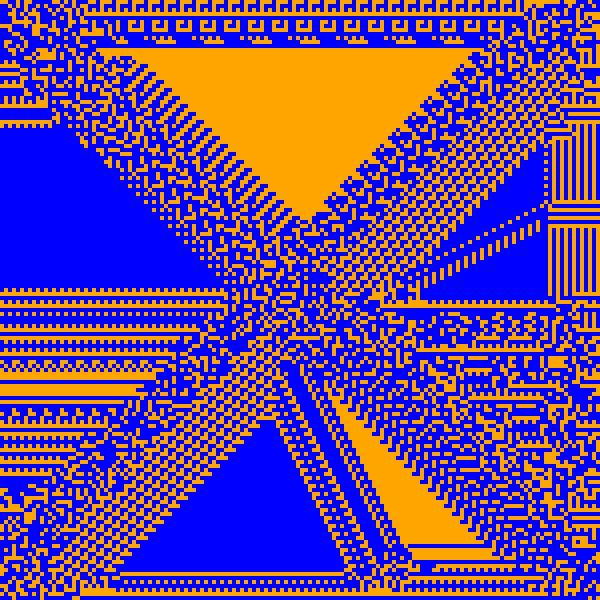
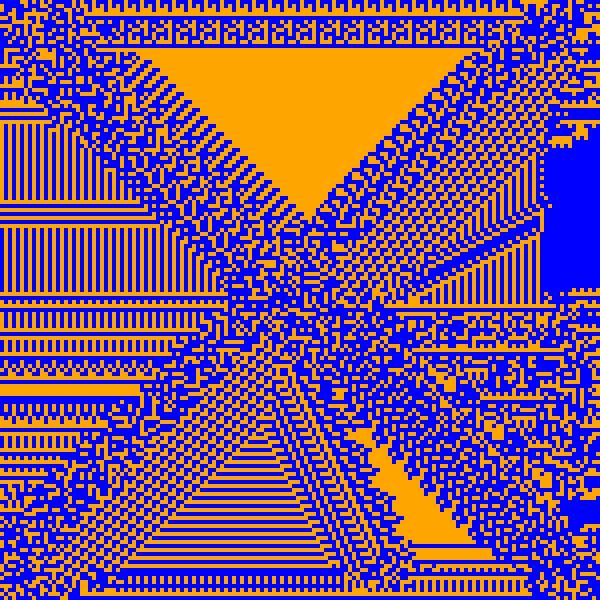
put functions into separate python file

diff --git a/CellularAtm.py b/CellularAtm.py
@@ -1,6 +1,7 @@
 from tkinter import *
 import numpy as np
 from PIL import Image, ImageDraw
+from rules import start_state
 #import keyboard
 
 
@@ -48,7 +49,6 @@ def start_state(w, h, s, state):
         print('wrong dimensions')
 
 
-
 ca.current_state = start_state(width, height, scl, 'cross')
 ca.next_state = np.zeros((int(width / scl), int(height / scl)))
 ca.neighbors = 0
@@ -87,23 +87,10 @@ def update():
             ca.neighbors = topLeft + topCenter + topRight + midLeft + \
                            midRight + bottomLeft + bottomCenter + bottomRight
 
-            # if ca.current_state[int(i / scl)][int(j / scl)] == 1 and (ca.neighbors == 2 or ca.neighbors == 4):
-            #     ca.next_state[int(i / scl)][int(j / scl)] = 0
-            # elif ca.current_state[int(i / scl)][int(j / scl)] == 0 and (ca.neighbors == 1 or ca.neighbors == 3 or ca.neighbors == 8):
-            #     ca.next_state[int(i / scl)][int(j / scl)] = 1
-
             if ca.current_state[int(i/scl)][int(j/scl)] == 1 and (ca.neighbors == 1 or ca.neighbors == 6 or ca.neighbors == 2):
                 ca.next_state[int(i/scl)][int(j/scl)] = 0
             elif ca.current_state[int(i/scl)][int(j/scl)] == 0 and (ca.neighbors < 3 or ca.neighbors == 7):
                 ca.next_state[int(i/scl)][int(j/scl)] = 1
-
-            # game of life
-#            if ca.current_state[int(i/scl)][int(j/scl)] == 1 and (ca.neighbors < 2 or ca.neighbors == 1):
-#                ca.next_state[int(i/scl)][int(j/scl)] = 0
-#            elif ca.current_state[int(i/scl)][int(j/scl)] == 1 and (ca.neighbors > 3):
-#                ca.next_state[int(i/scl)][int(j/scl)] = 0
-#            elif ca.current_state[int(i/scl)][int(j/scl)] == 0 and (ca.neighbors == 3):
-#                ca.next_state[int(i/scl)][int(j/scl)] = 1
 
             if ca.current_state[int(i / scl)][int(j / scl)] == 1:
                 canvas.create_rectangle(i, j, i + scl, j + scl, fill='orange', outline='')
@@ -115,7 +102,7 @@ def update():
             ca.current_state[int(i / scl)][int(j / scl)] = ca.next_state[int(i / scl)][int(j / scl)]
 
     # keyboard.wait("p")
-    my_window.after(400, update)
+    my_window.after(500, update)
     filename = "my_CA.jpg"
     image1.save(filename)
 
@@ -124,5 +111,5 @@ my_window = Tk()
 canvas = Canvas(my_window, width=width, height=height, background='black')
 canvas.pack()
 
-my_window.after(400, update)
+my_window.after(500, update)
 my_window.mainloop()

diff --git a/rules.py b/rules.py
@@ -1,0 +1,44 @@
+import numpy as np
+
+def pad_with(vector, pad_width, iaxis, kwargs):
+    pad_value = kwargs.get('padder', 10)
+    vector[:pad_width[0]] = pad_value
+    vector[-pad_width[1]:] = pad_value
+
+
+def start_state(w, h, s, state):
+
+    if state == 'pad' and int(w/s) % 3 == 0:
+        x = int((w/s)/3)
+        y = int(((w/s) - x)/2)
+        ab = np.zeros((x, x), dtype=int)
+        cd = np.pad(ab, int(y/2), pad_with, padder=1)
+        ef = np.pad(cd, int(y/2), pad_with, padder = 0)
+        return ef
+
+    elif state == 'cross':
+        aa = np.eye(int(w/s), dtype=int)
+        bb = np.rot90(aa).copy()
+        cc = np.array(aa + bb)
+        return cc
+
+    elif state == 'rand':
+        return np.random.randint(0, 2, (int(w/s), int(h/s)))
+
+    else:
+        print('wrong dimensions')
+
+
+## game of life
+#if ca.current_state[int(i/scl)][int(j/scl)] == 1 and (ca.neighbors < 2 or ca.neighbors == 1):
+#    ca.next_state[int(i/scl)][int(j/scl)] = 0
+#elif ca.current_state[int(i/scl)][int(j/scl)] == 1 and (ca.neighbors > 3):
+#    ca.next_state[int(i/scl)][int(j/scl)] = 0
+#elif ca.current_state[int(i/scl)][int(j/scl)] == 0 and (ca.neighbors == 3):
+#    ca.next_state[int(i/scl)][int(j/scl)] = 1
+
+
+# if ca.current_state[int(i / scl)][int(j / scl)] == 1 and (ca.neighbors == 2 or ca.neighbors == 4):
+#     ca.next_state[int(i / scl)][int(j / scl)] = 0
+# elif ca.current_state[int(i / scl)][int(j / scl)] == 0 and (ca.neighbors == 1 or ca.neighbors == 3 or ca.neighbors == 8):
+#     ca.next_state[int(i / scl)][int(j / scl)] = 1
